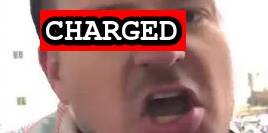
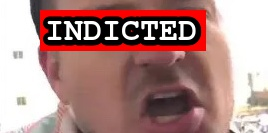
Latest import

Changed region(s): [[0.1493, 0.0602, 0.7761, 0.391], [0.5672, 0.3308, 0.597, 0.3609], [0.2687, 0.3308, 0.2985, 0.3609]]

diff --git a/docs/_suspects/ryan-zink.md b/docs/_suspects/ryan-zink.md
@@ -3,13 +3,14 @@ name: Ryan Zink
 lastName: Zink
 aka: Ryan Scott Zink
 residence: Texas
-status: Charged
+status: Indicted
 date: 2021-02-04
 charged: 2021-02-04
-indicted:
-convicted: 
-sentenced: 
-dismissed: 
+indicted: 2021-03-05
+convicted:
+sentenced:
+dismissed:
+deceased:
 age: 32
 occupation: Business Owner
 affiliations:
@@ -28,12 +29,14 @@ author: seditiontrack
 layout: suspect
 published: true
 charges:
- - name: Obstruction of an official proceeding
-   code: 18 USC 1512
-   link: https://www.law.cornell.edu/uscode/text/18/1512
- - name: Unlawful entry on restricted building or grounds
-   code: 18 USC 1752
-   link: https://www.law.cornell.edu/uscode/text/18/1752
+  - name: Obstruction of an official proceeding
+    code: 18 USC 1512
+    link: https://www.law.cornell.edu/uscode/text/18/1512
+  - name: Unlawful entry on restricted building or grounds
+    code: 18 USC 1752
+    link: https://www.law.cornell.edu/uscode/text/18/1752
 ---
+
 - [News Report](https://www.lubbockonline.com/story/news/crime/2021/02/04/lubbock-man-accused-participating-capitol-riots/4399609001/)
 - [Statement of Facts](https://graytv-my.sharepoint.com/personal/michael_duff_gray_tv/_layouts/15/onedrive.aspx?id=%2Fpersonal%2Fmichael%5Fduff%5Fgray%5Ftv%2FDocuments%2FShared%20with%20Everyone%2FStatement%20of%20fact%2Epdf&parent=%2Fpersonal%2Fmichael%5Fduff%5Fgray%5Ftv%2FDocuments%2FShared%20with%20Everyone&originalPath=aHR0cHM6Ly9ncmF5dHYtbXkuc2hhcmVwb2ludC5jb20vOmI6L2cvcGVyc29uYWwvbWljaGFlbF9kdWZmX2dyYXlfdHYvRVkyZVhSVTg1WnhObEVOQk1aYWlSR2tCbk5pbWdqYTNPT1hjT0RHU2FCaVRhQT9ydGltZT1ZcHlMblRUTjJFZw)
+- [Indictment](https://www.justice.gov/usao-dc/case-multi-defendant/file/1414721/download)

diff --git a/docs/_suspects/brian-stenz.md b/docs/_suspects/brian-stenz.md
@@ -8,8 +8,9 @@ date: 2021-04-28
 charged: 2021-04-28
 indicted:
 convicted: 
-sentenced: 
+sentenced:
 dismissed: 
+deceased:
 age: 51
 occupation:
 affiliations:
@@ -32,3 +33,4 @@ charges:
 - [News Report](https://www.msn.com/en-us/news/crime/montgomery-county-man-charged-in-capitol-insurrection/ar-BB1geNiC)
 - [Complaint](https://extremism.gwu.edu/sites/g/files/zaxdzs2191/f/Brian%20Stenz%20Criminal%20Complaint.pdf)
 - [Statement of Facts](https://extremism.gwu.edu/sites/g/files/zaxdzs2191/f/Brian%20Stenz%20Criminal%20Complaint.pdf)
+- [Information](https://www.justice.gov/usao-dc/case-multi-defendant/file/1414606/download)

diff --git a/docs/_suspects/joseph-zlab.md b/docs/_suspects/joseph-zlab.md
@@ -8,8 +8,9 @@ date: 2021-05-07
 charged: 2021-05-07
 indicted:
 convicted: 
-sentenced: 
+sentenced:
 dismissed: 
+deceased:
 age: 51
 occupation:
 affiliations:
@@ -32,3 +33,4 @@ charges:
 - [News Report](https://www.theolympian.com/news/state/washington/article251432728.html)
 - [Complaint](https://www.justice.gov/usao-dc/case-multi-defendant/file/1394226/download)
 - [Statement of Facts](https://www.justice.gov/usao-dc/case-multi-defendant/file/1394231/download)
+- [Information](https://www.justice.gov/usao-dc/case-multi-defendant/file/1414716/download)

diff --git a/docs/_suspects/andrew-bennett.md b/docs/_suspects/andrew-bennett.md
@@ -8,8 +8,9 @@ date: 2021-01-26
 charged: 2021-01-26
 indicted:
 convicted: 2021-07-22
-sentenced: 
+sentenced:
 dismissed: 
+deceased:
 age: 22
 occupation:
 affiliations: Proud Boys
@@ -39,3 +40,4 @@ charges:
 - [Complaint](https://www.justice.gov/file/1360786/download)
 - [Statement of Facts](https://www.justice.gov/file/1360786/download)
 - [Information](https://www.justice.gov/usao-dc/case-multi-defendant/file/1379256/download)
+- [Plea Agreement](https://www.justice.gov/usao-dc/case-multi-defendant/file/1414706/download)

diff --git a/docs/_suspects/garret-miller.md b/docs/_suspects/garret-miller.md
@@ -7,9 +7,10 @@ status: Indicted
 date: 2021-01-20
 charged: 2021-01-20
 indicted: 2021-02-12
-convicted: 
-sentenced: 
-dismissed: 
+convicted:
+sentenced:
+dismissed:
+deceased:
 age: 34
 occupation:
 affiliations:
